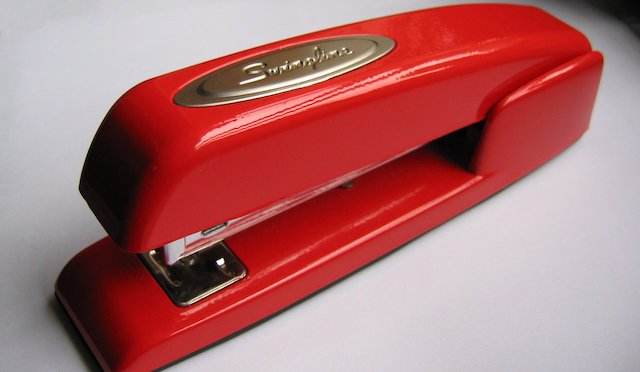
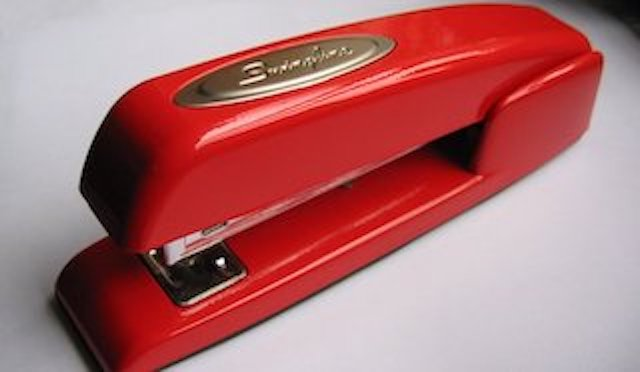
Finished Item Details. ready for unit test

diff --git a/src/app/app.component.html b/src/app/app.component.html
@@ -1,8 +1,5 @@
 <!DOCTYPE html>
-<base href="/">
 <html lang ="en">
-
-    <link rel="stylesheet" href="https://stackpath.bootstrapcdn.com/bootstrap/4.4.1/css/bootstrap.min.css" integrity="sha384-Vkoo8x4CGsO3+Hhxv8T/Q5PaXtkKtu6ug5TOeNV6gBiFeWPGFN9MuhOf23Q9Ifjh" crossorigin="anonymous">
 
   <nav class="navbar navbar-expand-md navbar-dark fixed-top bg-dark">
           <a class="navbar-brand mb-0 bg-dark" href="#">Office Supplies</a>
@@ -12,17 +9,14 @@
         <div class="collapse navbar-collapse" id="navbarsExampleDefault">
             <ul class="navbar-nav mr-auto">
               <li class="nav-item active">
-                <a class="nav-link" href="#">Home <span class="sr-only">(current)</span></a>
+                <a class="nav-link" routerLink="">Home <span class="sr-only">(current)</span></a>
               </li>
               <li class="nav-item">
-                <a class="nav-link" href="../app/catalog/catalog.component.html">Catalog</a>
+                <a class="nav-link" routerLink="/catalog">Catalog</a>
               </li>
-              <li class="nav-item">
-                <a class="nav-link" href="#">Promotions</a>
-              </li>
-              <li class="nav-item">
+              <!-- <li class="nav-item">
                   <a class="nav-link">Cart</a> 
-                </li>
+              </li> -->
             </ul>
     </div>
   </nav>
@@ -30,37 +24,16 @@
   <main role="main">
 
     <body> 
-      <!-- Main jumbotron for a primary marketing message or call to action -->
-      <div class="jumbotron">
-        <div class="container">
-          <h1 class="display-3">Welcome!</h1>
-          <p>Welcome to the Office Supply Store! Here on our main page you will be able to find out about some of our featured products and promotions. Be sure to check out our full catalog to view all of our products.</p>
-        </div>
-      </div>
 
 
       <router-outlet></router-outlet>
 
-      <app-featured-promos></app-featured-promos>
-
-        <hr>
-
       <!-- Featured Products section -->
 
-      <app-featured-products></app-featured-products>
-
-      <hr>
-
-      <app-catalog></app-catalog>
 
       <footer class="container">
           <p>&copy; Office Supply Co. 2020</p>
         </footer>
-
-      <script src="https://code.jquery.com/jquery-3.4.1.slim.min.js" integrity="sha384-J6qa4849blE2+poT4WnyKhv5vZF5SrPo0iEjwBvKU7imGFAV0wwj1yYfoRSJoZ+n" crossorigin="anonymous"></script>
-      <script src="https://cdn.jsdelivr.net/npm/popper.js@1.16.0/dist/umd/popper.min.js" integrity="sha384-Q6E9RHvbIyZFJoft+2mJbHaEWldlvI9IOYy5n3zV9zzTtmI3UksdQRVvoxMfooAo" crossorigin="anonymous"></script>
-      <script src="https://stackpath.bootstrapcdn.com/bootstrap/4.4.1/js/bootstrap.min.js" integrity="sha384-wfSDF2E50Y2D1uUdj0O3uMBJnjuUD4Ih7YwaYd1iqfktj0Uod8GCExl3Og8ifwB6" crossorigin="anonymous"></script>
-
 
     </body>
   </main>

diff --git a/src/app/catalog/catalog.component.html b/src/app/catalog/catalog.component.html
@@ -1,18 +1,46 @@
 <div class="container">
-        <h3 class="display-6">Featured Products</h3>
-        <!-- Example row of columns -->
-        <div class="row" id="products">
-          <div class="col-md-4" *ngFor="let product of products; let i=index;">
-              <div class="card" style="width: 18rem;">
-                  <img src={{product.image}} class="card-img-top" alt={{product.name}} (click)=onSelect(product)>
-                  <div class="card-body">
-                    <p class="card-text">{{product.name}}</p>
-                    <p class="card-text">{{product.description}}</p>
-                    <p class="card-text">{{product.price}}</p>
-                  </div>
-                </div>
-          </div>
-          
+  <h3 class="display-6">Featured Products</h3>
+  <!-- Example row of columns -->
+  <div class="row" id="products">
+    <div class="col-md-4" *ngFor="let product of products; let i=index;">
+        <div class="card" style="width: 18rem;" >
+            <img src={{product.image}} class="card-img-top" alt={{product.name}}>
+            <div class="card-body">
+              <p class="card-text">{{product.name}}</p>
+              <p class="card-text">{{product.description}}</p>
+              <p class="card-text">${{product.price}}</p>
+              <a href="" class="stretched-link"  routerLink="/itemDetails/{{product.id}}" (click)="onSelect(product)" data-toggle="modal" data-target="#exampleModalCenter"></a>
+            </div>
         </div>
+    </div>
+    
+  </div>
+</div> <!-- /container -->
 
-      </div> <!-- /container -->
+<!-- Modal -->
+<div *ngIf="selectedProduct" class="modal fade" id="exampleModalCenter" tabindex="-1" role="dialog" aria-labelledby="exampleModalCenterTitle" aria-hidden="true">
+    <div class="modal-dialog modal-dialog-centered" role="document">
+      <div class="modal-content">
+        <div class="modal-header">
+          <h5 class="modal-title" id="exampleModalCenterTitle">Item Details</h5>
+          <button type="button" class="close" data-dismiss="modal" aria-label="Close">
+            <span aria-hidden="true">&times;</span>
+          </button>
+        </div>
+        <div class="modal-body">
+            <div>
+                  <h4>{{selectedProduct.name}}</h4>
+            </div>
+            <div><img src={{selectedProduct.image}} style="max-width:  320px;"></div>
+            <p><div><span>id: </span>{{selectedProduct.id}}</div>
+            <p><div>{{selectedProduct.description}}</div>
+            <p><div><span>price: </span>${{selectedProduct.price}}</div>
+
+        </div>
+        <div class="modal-footer">
+          <button type="button" class="btn btn-secondary" data-dismiss="modal">Close</button>
+          <button type="button" class="btn btn-primary" data-dismiss="modal">Add To Cart</button>
+        </div>
+      </div>
+    </div>
+  </div>

diff --git a/src/app/featured-promos/featured-promos.component.html b/src/app/featured-promos/featured-promos.component.html
@@ -4,9 +4,10 @@
               <p>
                 <h2>Check out these featured promotions!</h2>
                 <br>
-                <p>These sales wont last long, get them while they're still available. To view all promotions, check out our <a href="">promotions page</a>.</p>
+                <p>Need to restock on office supplies? Check these sales out they wont last long. Get them while they're still available. 
             </div>
             <div class="col-md-auto">
+
               <!-- Featured Promotion section -->
               <div id="carouselExampleCaptions" class="carousel slide" data-ride="carousel">
                 <ol class="carousel-indicators">
@@ -30,7 +31,7 @@
                     </div>
                   </div>
                   <div class="carousel-item active">
-                    <img src="https://upload.wikimedia.org/wikipedia/commons/thumb/0/01/Stapler-swingline-red.jpg/320px-Stapler-swingline-red.jpg" class="d-block w-100" alt="..." >
+                    <img src="../assets/images/stapler.jpg" class="d-block w-100" alt="..." >
                     <div class="carousel-caption d-none d-md-block">
                       <h5>15% off Swingline Staplers</h5>
                       <p>No need to borrow your colleague's stapler anymore.</p>
@@ -46,6 +47,7 @@
                   <span class="sr-only">Next</span>
                 </a>
               </div>
+
                   </div>
                 </div>                        
       </div>

diff --git a/src/app/app.module.ts b/src/app/app.module.ts
@@ -1,16 +1,21 @@
 import { BrowserModule } from '@angular/platform-browser';
 import { NgModule } from '@angular/core';
 import { RouterModule, Routes } from '@angular/router';
+import { FormsModule } from '@angular/forms';
 
 import { AppRoutingModule } from './app-routing.module';
 import { AppComponent } from './app.component';
 import { FeaturedPromosComponent } from './featured-promos/featured-promos.component';
 import { FeaturedProductsComponent } from './featured-products/featured-products.component';
 import { CatalogComponent } from './catalog/catalog.component';
+import { HomeComponent } from './home/home.component';
+import { ItemDetailsComponent } from './item-details/item-details.component';
+import { CartDetailsComponent } from './cart-details/cart-details.component';
 
 const appRoutes = [
-  { path: '', component: AppComponent},
-  { catalog: 'catalog', component: CatalogComponent}
+  { path: '', component: HomeComponent},
+  { path: 'catalog', component: CatalogComponent},
+  { path: 'itemDetails', component: ItemDetailsComponent}
 ]
 
 @NgModule({
@@ -18,10 +23,14 @@ const appRoutes = [
     AppComponent,
     FeaturedPromosComponent,
     FeaturedProductsComponent,
-    CatalogComponent
+    CatalogComponent,
+    HomeComponent,
+    ItemDetailsComponent,
+    CartDetailsComponent
   ],
   imports: [
     BrowserModule,
+    FormsModule,
     AppRoutingModule,
     RouterModule.forRoot(
       appRoutes,

diff --git a/src/index.html b/src/index.html
@@ -6,8 +6,13 @@
   <base href="/">
   <meta name="viewport" content="width=device-width, initial-scale=1">
   <link rel="icon" type="image/x-icon" href="favicon.ico">
+  <link rel="stylesheet" href="https://stackpath.bootstrapcdn.com/bootstrap/4.4.1/css/bootstrap.min.css" integrity="sha384-Vkoo8x4CGsO3+Hhxv8T/Q5PaXtkKtu6ug5TOeNV6gBiFeWPGFN9MuhOf23Q9Ifjh" crossorigin="anonymous">
+
 </head>
 <body>
   <app-root></app-root>
+  <script src="https://code.jquery.com/jquery-3.4.1.slim.min.js" integrity="sha384-J6qa4849blE2+poT4WnyKhv5vZF5SrPo0iEjwBvKU7imGFAV0wwj1yYfoRSJoZ+n" crossorigin="anonymous"></script>
+  <script src="https://cdn.jsdelivr.net/npm/popper.js@1.16.0/dist/umd/popper.min.js" integrity="sha384-Q6E9RHvbIyZFJoft+2mJbHaEWldlvI9IOYy5n3zV9zzTtmI3UksdQRVvoxMfooAo" crossorigin="anonymous"></script>
+  <script src="https://stackpath.bootstrapcdn.com/bootstrap/4.4.1/js/bootstrap.min.js" integrity="sha384-wfSDF2E50Y2D1uUdj0O3uMBJnjuUD4Ih7YwaYd1iqfktj0Uod8GCExl3Og8ifwB6" crossorigin="anonymous"></script>
 </body>
 </html>

diff --git a/src/app/catalog/catalog.component.ts b/src/app/catalog/catalog.component.ts
@@ -1,6 +1,7 @@
 import { Component, OnInit } from '@angular/core';
-import { PRODUCTS } from "../../assets/inventory";
 import { Product } from '../models/product';
+import { PRODUCTS } from '../../assets/inventory';
+import { ProductService } from "../product.service";
 
 @Component({
   selector: 'app-catalog',
@@ -9,16 +10,24 @@ import { Product } from '../models/product';
 })
 export class CatalogComponent implements OnInit {
 
+  // products: Product[];
+
   products = PRODUCTS;
 
   selectedProduct: Product;
   onSelect(product: Product): void {
-  this.selectedProduct = product;
-}
+    this.selectedProduct = product;
+  }
 
-  constructor() { }
+  // getProducts(): void {
+  //   this.productService.getProducts()
+  //       .subscribe(this.products => this.products = this.products);
+  // }
+
+  constructor(private productService: ProductService) { }
 
   ngOnInit() {
+    //this.getProducts();
   }
 
 }

diff --git a/src/app/cart-details/cart-details.component.spec.ts b/src/app/cart-details/cart-details.component.spec.ts
@@ -1,0 +1,25 @@
+import { async, ComponentFixture, TestBed } from '@angular/core/testing';
+
+import { CartDetailsComponent } from './cart-details.component';
+
+describe('CartDetailsComponent', () => {
+  let component: CartDetailsComponent;
+  let fixture: ComponentFixture<CartDetailsComponent>;
+
+  beforeEach(async(() => {
+    TestBed.configureTestingModule({
+      declarations: [ CartDetailsComponent ]
+    })
+    .compileComponents();
+  }));
+
+  beforeEach(() => {
+    fixture = TestBed.createComponent(CartDetailsComponent);
+    component = fixture.componentInstance;
+    fixture.detectChanges();
+  });
+
+  it('should create', () => {
+    expect(component).toBeTruthy();
+  });
+});

diff --git a/src/app/item-details/item-details.component.spec.ts b/src/app/item-details/item-details.component.spec.ts
@@ -1,0 +1,25 @@
+import { async, ComponentFixture, TestBed } from '@angular/core/testing';
+
+import { ItemDetailsComponent } from './item-details.component';
+
+describe('ItemDetailsComponent', () => {
+  let component: ItemDetailsComponent;
+  let fixture: ComponentFixture<ItemDetailsComponent>;
+
+  beforeEach(async(() => {
+    TestBed.configureTestingModule({
+      declarations: [ ItemDetailsComponent ]
+    })
+    .compileComponents();
+  }));
+
+  beforeEach(() => {
+    fixture = TestBed.createComponent(ItemDetailsComponent);
+    component = fixture.componentInstance;
+    fixture.detectChanges();
+  });
+
+  it('should create', () => {
+    expect(component).toBeTruthy();
+  });
+});

diff --git a/src/app/home/home.component.spec.ts b/src/app/home/home.component.spec.ts
@@ -1,0 +1,25 @@
+import { async, ComponentFixture, TestBed } from '@angular/core/testing';
+
+import { HomeComponent } from './home.component';
+
+describe('HomeComponent', () => {
+  let component: HomeComponent;
+  let fixture: ComponentFixture<HomeComponent>;
+
+  beforeEach(async(() => {
+    TestBed.configureTestingModule({
+      declarations: [ HomeComponent ]
+    })
+    .compileComponents();
+  }));
+
+  beforeEach(() => {
+    fixture = TestBed.createComponent(HomeComponent);
+    component = fixture.componentInstance;
+    fixture.detectChanges();
+  });
+
+  it('should create', () => {
+    expect(component).toBeTruthy();
+  });
+});

diff --git a/src/app/home/home.component.html b/src/app/home/home.component.html
@@ -1,0 +1,15 @@
+<!-- Main jumbotron for a primary marketing message or call to action -->
+<div class="jumbotron">
+    <div class="container">
+    <h1 class="display-3">Welcome!</h1>
+    <p>Welcome to the Office Supply Store! Here on our main page you will be able to find out about some of our featured products and promotions. Be sure to check out our full catalog to view all of our products.</p>
+    </div>
+</div>
+
+<app-featured-promos></app-featured-promos>
+
+<hr>
+
+<app-featured-products></app-featured-products>
+
+<hr>

diff --git a/src/app/product.service.ts b/src/app/product.service.ts
@@ -1,0 +1,16 @@
+import { Injectable } from '@angular/core';
+import { Product } from "../../src/app/models/product";
+import { PRODUCTS } from "../assets/inventory";
+import { Observable, of } from 'rxjs';
+
+@Injectable({
+  providedIn: 'root'
+})
+export class ProductService {
+
+  getProducts(): Observable<Product[]> {
+    return of(PRODUCTS);
+  }
+
+  constructor() { }
+}

diff --git a/src/app/item-details/item-details.component.html b/src/app/item-details/item-details.component.html
@@ -1,0 +1,10 @@
+<div class="card">
+        <h5 class="card-header">Featured</h5>
+        <div class="card-body">
+          <h5 class="card-title">Special title treatment</h5>
+          <p class="card-text">With supporting text below as a natural lead-in to additional content.</p>
+          <a href="#" class="btn btn-primary">Go somewhere</a>
+        </div>
+</div>
+
+
